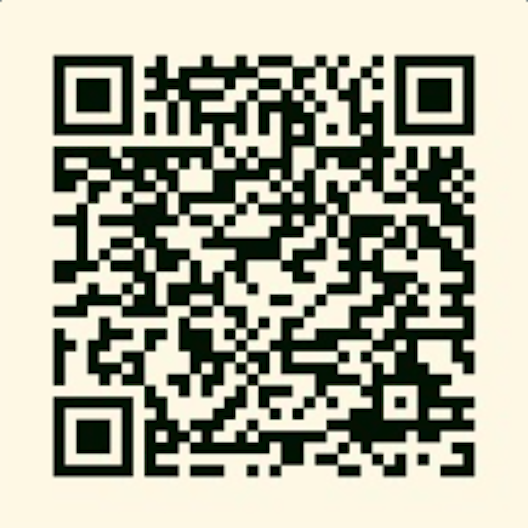
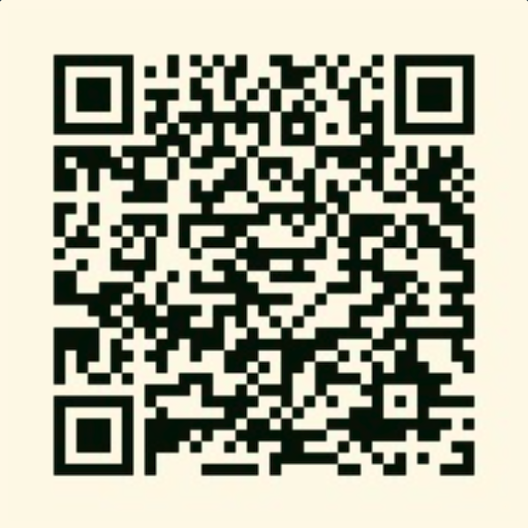
Readme and Remote care qr updated

Changed region(s): [[0.0909, 0.0909, 0.9091, 0.9091]]

diff --git a/README.md b/README.md
@@ -26,7 +26,7 @@ Supports Android Chrome and iOS Safari.
 |![Demo][remote-car-demo-gif]  | ![Demo][ar_animation-demo-gif]  |
 |![QR Code][remote-car-demo-qrcode]  | ![QR Code][ar_animation-demo-qrcode]  |
 
-[remote-car-demo-url]: https://webar-sdk.blippar.com/unity-webarsdk-example/v1.4.1/surface-tracking/racing-car/index.html "Live Demo"
+[remote-car-demo-url]: https://webar-sdk.blippar.com/unity-webarsdk-example/v1.4.1/surface-tracking/remote-car/index.html "Live Demo"
 [remote-car-demo-gif]: https://github.com/blippar/unity-webarsdk-example/blob/main/Assets/videos/RemoteCar.gif "Remote Car"
 [remote-car-demo-qrcode]: https://github.com/blippar/unity-webarsdk-example/blob/main/Assets/images/RemoteCar.png "QR Code"
 
